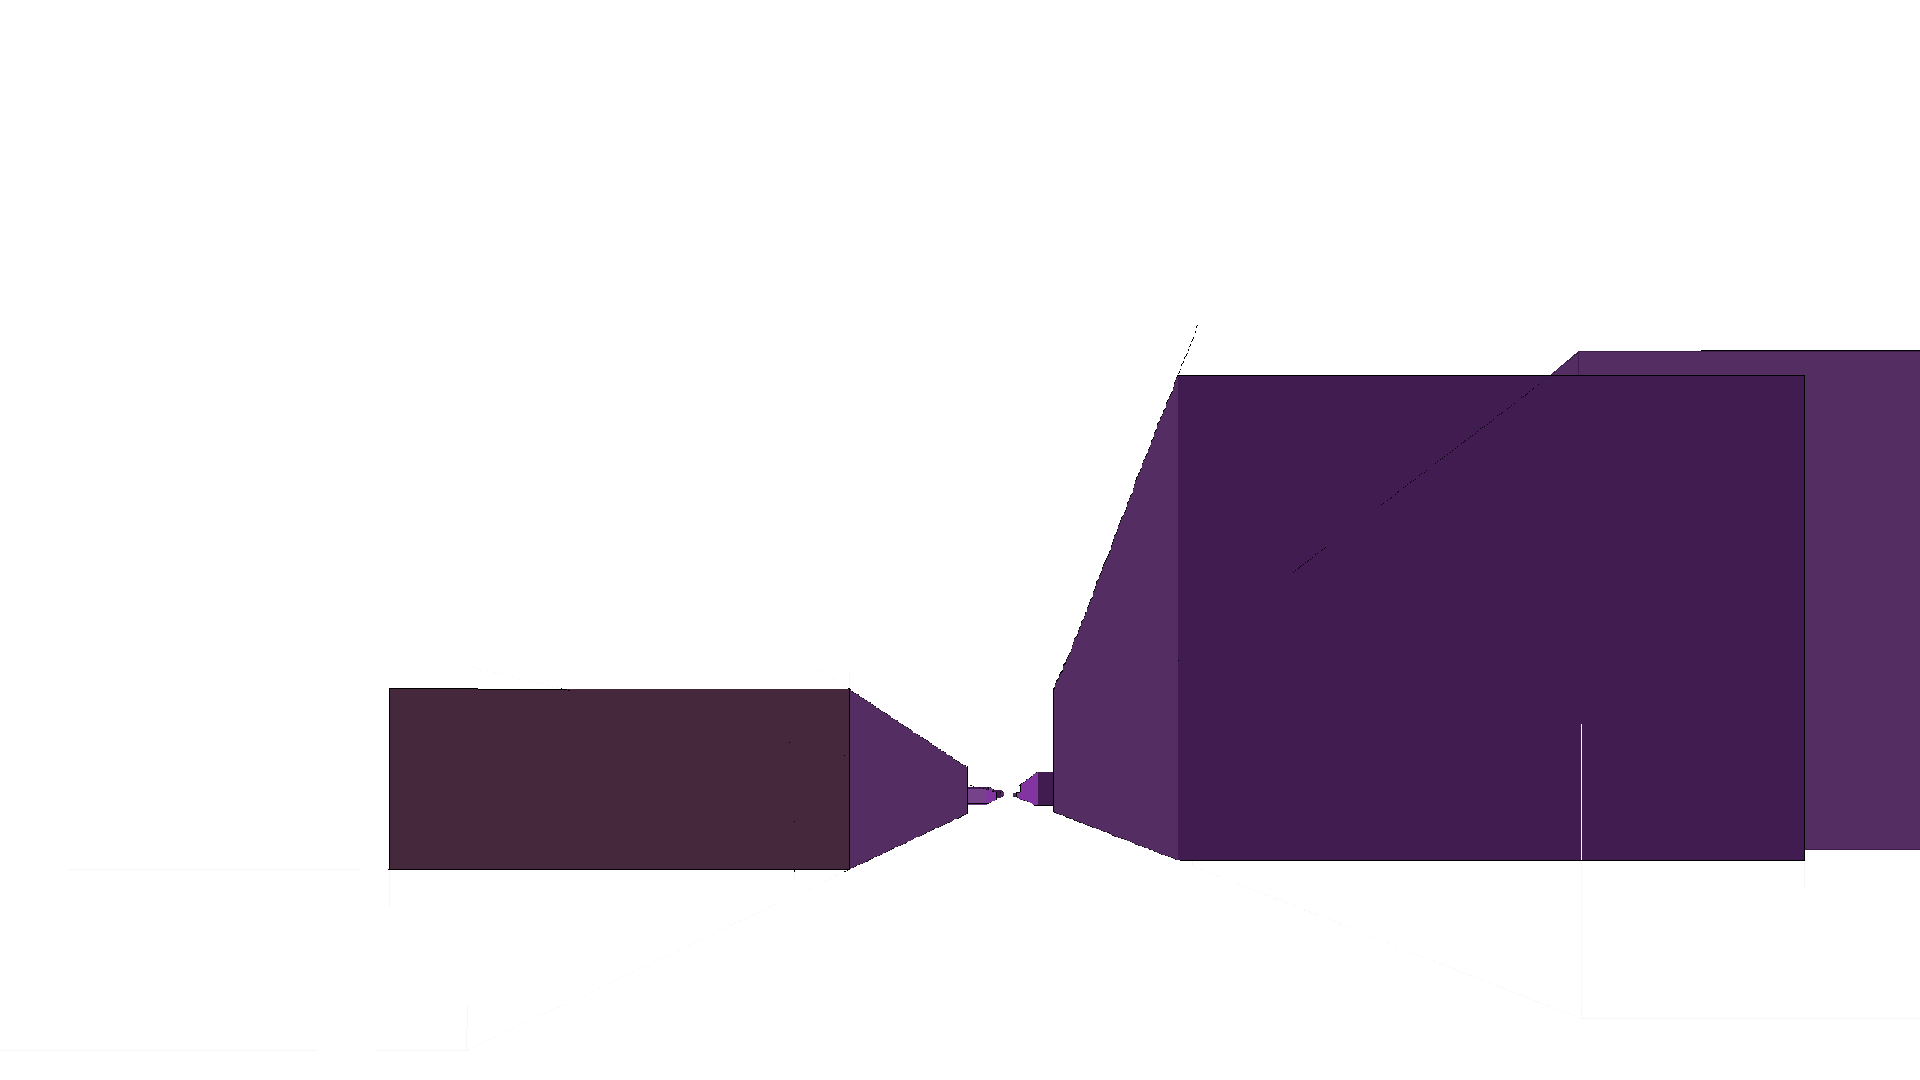
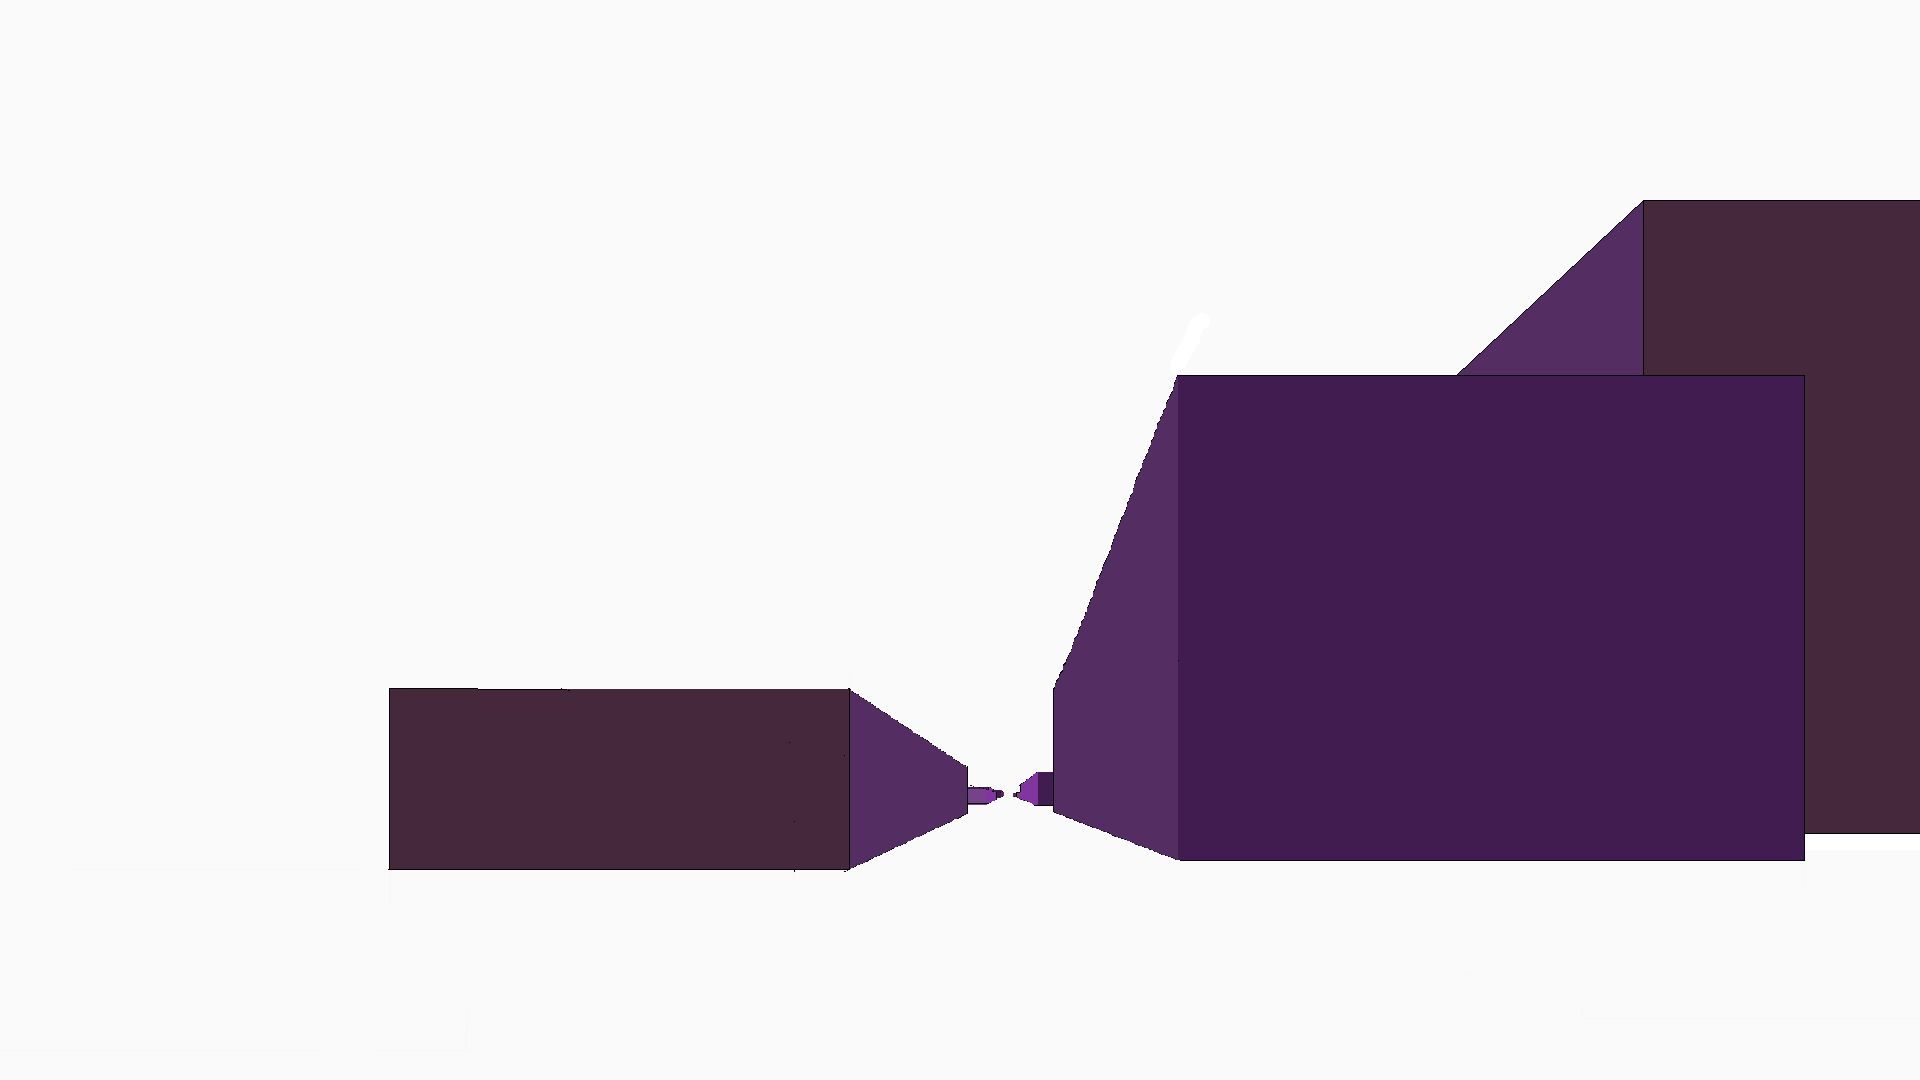
Tried fixing City component

Changed region(s): [[0.75, 0.1833, 1.0, 0.7944]]

diff --git a/src/components/City.jsx b/src/components/City.jsx
@@ -2,45 +2,42 @@ import React, { useEffect } from "react";
 
 export default function City() {
     useEffect(() => {
-        const handleScroll = () => {
-          const scrollPosition = window.scrollY;
-          
-          document.querySelector('.city-2').style.transform = `translateY(${scrollPosition * -0.8}px)`;
-          document.querySelector('.city-3').style.transform = `translateY(${scrollPosition * -0.8}px)`;
-        };
-        window.addEventListener('scroll', handleScroll);
+      const handleScroll = () => {
+        const scrollPosition = window.scrollY;
         
-        return () => window.removeEventListener('scroll', handleScroll);
-        }, []);
+        document.querySelector('.city-2').style.transform = `translateY(${scrollPosition * -0.8}px)`;
+        document.querySelector('.city-3').style.transform = `translateY(${scrollPosition * -0.8}px)`;
+      };
+      window.addEventListener('scroll', handleScroll);     
+      return () => window.removeEventListener('scroll', handleScroll);
+    }, []);
 
-        useEffect(() => {
-          const handleParallax = (e) => {
-            const parallax = document.querySelector('.parallax');
-            const back = document.querySelector('.parallax-back-layer');
-            const front = document.querySelector('.parallax-front-layer');
-            const sFront = 1000;
-            const sBack = 2500;
-            const xOffest = -800;
-      
-            if (parallax && front && back) {
-              const x = e.clientX + xOffest;
+    useEffect(() => {
+      const handleParallax = (e) => {
+        const parallax = document.querySelector('.parallax');
+        const back = document.querySelector('.parallax-back-layer');
+        const front = document.querySelector('.parallax-front-layer');
+        const sFront = 1000;
+        const sBack = 2500;
+        const xOffest = -2;
 
-              back.style.transform = `translateX(${x / sBack}%) translateZ(7px)`;
-              front.style.transform = `translateX(${x / sFront}%) translateZ(8px)`;
-            }
-          };
-      
-          window.addEventListener('mousemove', handleParallax);
-      
-          return () => window.removeEventListener('mousemove', handleParallax);
-        }, []);
+        if (parallax && front && back) {
+          const x = e.clientX;
+
+          back.style.transform = `translateX(${(x / sBack) + xOffest}%)`;
+          front.style.transform = `translateX(${(x / sFront) + xOffest}%)`;
+        }
+      };
+      window.addEventListener('mousemove', handleParallax);
+      return () => window.removeEventListener('mousemove', handleParallax);
+    }, []);
 
     return (
         <section id="city"
-         className="w-screen relative">
+         className="w-[100%] h-fit relative">
             
-          <div className="city-parallax-container relative">
-            <img src="/parallax/city-moon.png" className="parallax-layer city-moon w-[40vw]" />
+          <div className="city-parallax-container w-screen relative">
+            <img src="/parallax/city-moon.png" className="parallax-layer city-moon" />
 
             <div className="parallax">
 

diff --git a/src/index.css b/src/index.css
@@ -132,14 +132,14 @@
 }
 
 .city-parallax-container {
-  height: 100vh;
+  height: 70vw;
   margin-top: -60vh;
+  overflow: hidden;
 }
 
 .parallax-layer {
+  width: 200%;
   position: absolute;
-  top: 0;
-  left: 0;
 }
 
 .stars-3 { 
@@ -155,6 +155,7 @@
 }
 
 .city-moon {
+  width: 40vw;
   z-index: 4px;
   margin-left: 33%;
 }
@@ -165,20 +166,18 @@
 
 .city-grd {
   z-index: 6px;
-  margin-top: 5%;
+  margin-top: 8%;
 }
 
 .city-fg {
   z-index: 7px;
-  margin-top: 5%;
+  margin-top: 8%;
 }
 
 .city-buildings {
-  margin-top: 5%;
+  margin-top: 8%;
   z-index: 8;
 }
-
-
 
 @keyframes mulShdSpin {
   0%,

diff --git a/src/App.jsx b/src/App.jsx
@@ -14,7 +14,7 @@ const App = () => {
         <div className='bg-hero-pattern bg-cover bg-no-repeat bg-center'>
           <Navbar />
           <Hero /> 
-          <City /> {/* faire que la taille de la section s adapte au contenu */}
+          <City />
         </div>  
         <About />
         <Experience />
